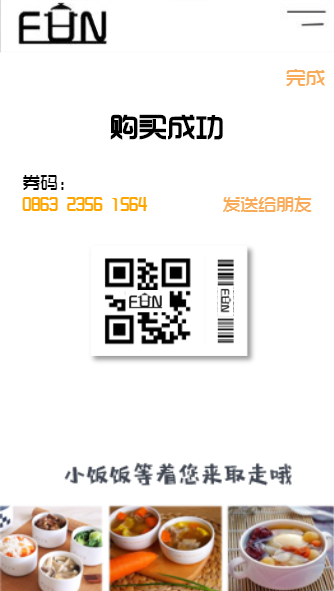
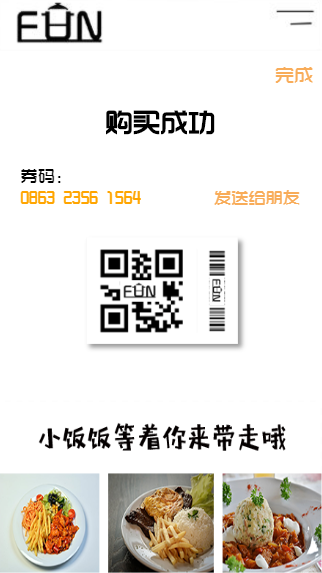
修改个别图片，同时修改高度小样式

diff --git a/homePage.html b/homePage.html
@@ -88,8 +88,8 @@
         <p class="pl6" style="font-family: jianti">账户管理<b class="icon iconfont icon-arrow-right"></b></p>
     </aside>
 
-    <div class="w75 h50">
-        <img src="images/top2.png" alt="广告" class="w75">
+    <div class="w75 h45">
+        <img src="images/top2.png" alt="广告" class="w75 h42">
     </div>
     <div class="nav h30 w75" style="display: flex;justify-content: space-around">
         <a href="liangshen.html"><img src="images/order.png" alt="订餐" class="w25 h25"></a>
@@ -105,16 +105,19 @@
 
         <div class="swiper-wrapper h50">
             <div class="swiper-slide swiper-slide-active" style="width: 375px;">
-                <img src="images/recomm1.png" alt="每日推荐1" class="w75 h40">
+                <img src="images/recomm1.png" alt="每日推荐1" class="w75 h35">
             </div>
             <div class="swiper-slide swiper-slide-next" style="width: 375px;">
-                <img src="images/recomm2.png" alt="每日推荐2" class="w75 h40">
+                <img src="images/recomm2.png" alt="每日推荐2" class="w75 h35">
             </div>
             <div class="swiper-slide swiper-slide-next" style="width: 375px;">
-                <img src="images/recomm1.png" alt="每日推荐1" class="w75 h40">
+                <img src="images/recomm3.png" alt="每日推荐1" class="w75 h35">
             </div>
             <div class="swiper-slide swiper-slide-next" style="width: 375px;">
-                <img src="images/recomm2.png" alt="每日推荐1" class="w75 h40">
+                <img src="images/recomm4.png" alt="每日推荐1" class="w75 h35">
+            </div>
+            <div class="swiper-slide swiper-slide-next" style="width: 375px;">
+                <img src="images/recomm5.png" alt="每日推荐1" class="w75 h35">
             </div>
         </div>
         <!-- Add Arrows -->

diff --git a/final.html b/final.html
@@ -47,8 +47,8 @@
                 <img src="images/erweima.png" alt="erweima">
             </p>
         </div>
-        <div class="t-c w75" style="position: fixed;bottom: 0;">
-            <img src="images/end.png" alt="" class="w75">
+        <div class="t-c w75 h40" style="position: fixed;bottom: 0;">
+            <img src="images/end.png" alt="" class="w75 h40">
         </div>
 
     </div>

diff --git a/README.md b/README.md
@@ -1,3 +1,8 @@
+---
+title: menshaofun
+date: 2019-03-08 11:58:48
+tags: [技术，前端]
+---
 ## 焖烧饭项目
 
 > 本项目基本功能为线上选择食谱菜单，线下取餐，利用焖烧锅自制菜品。
